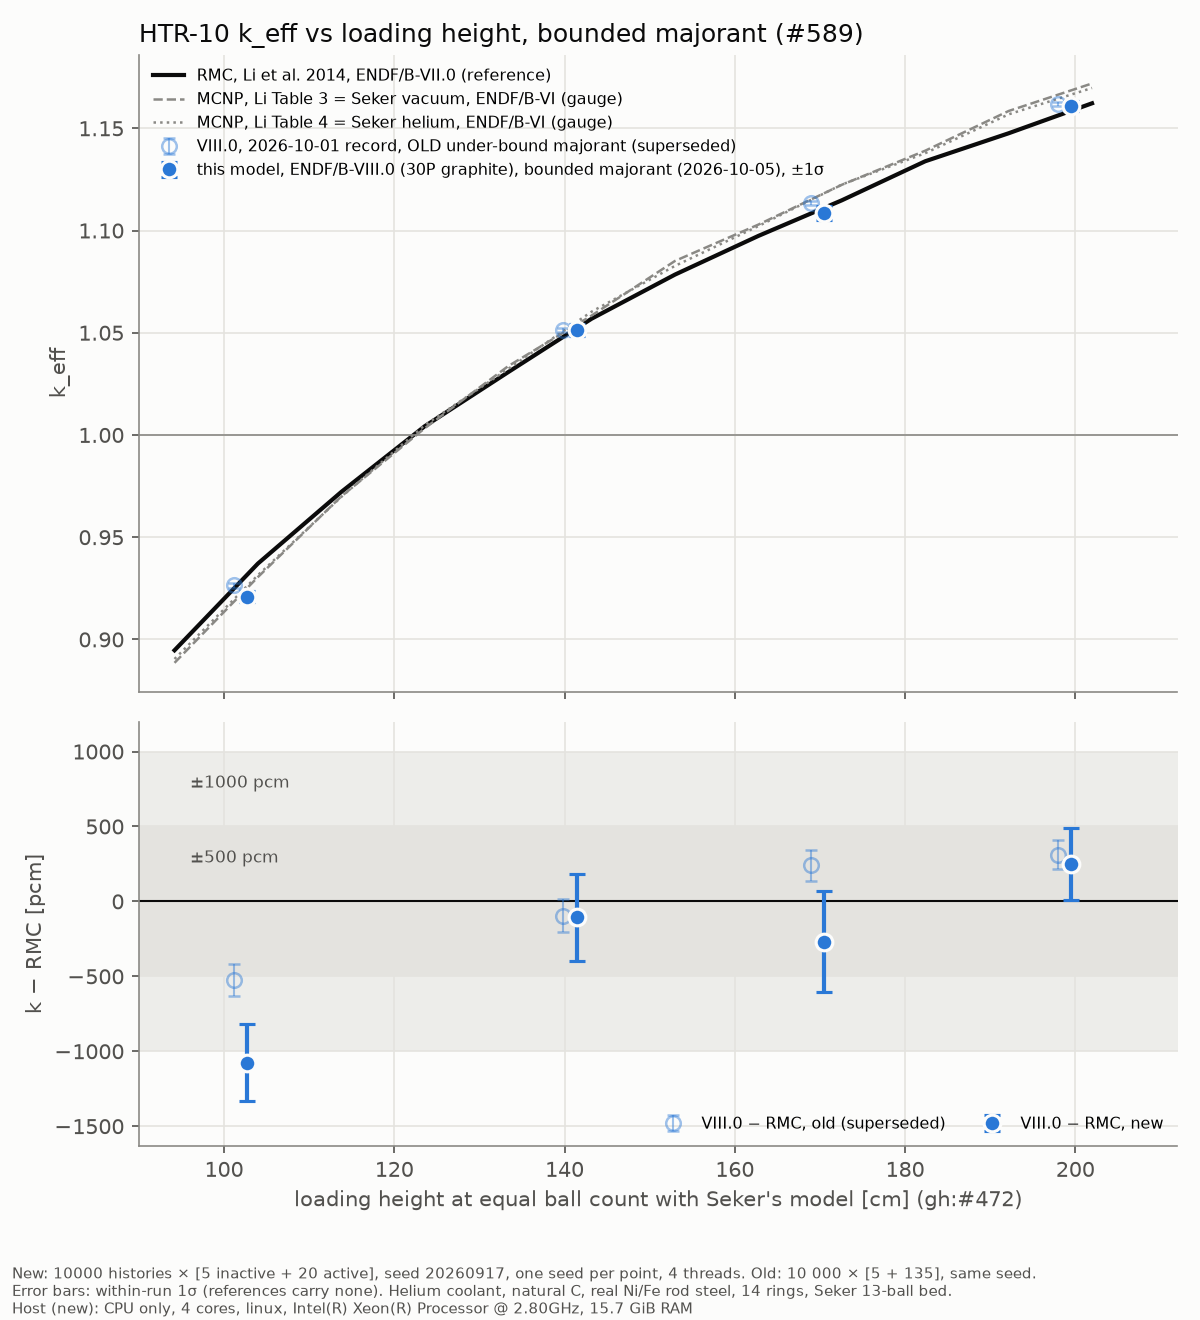
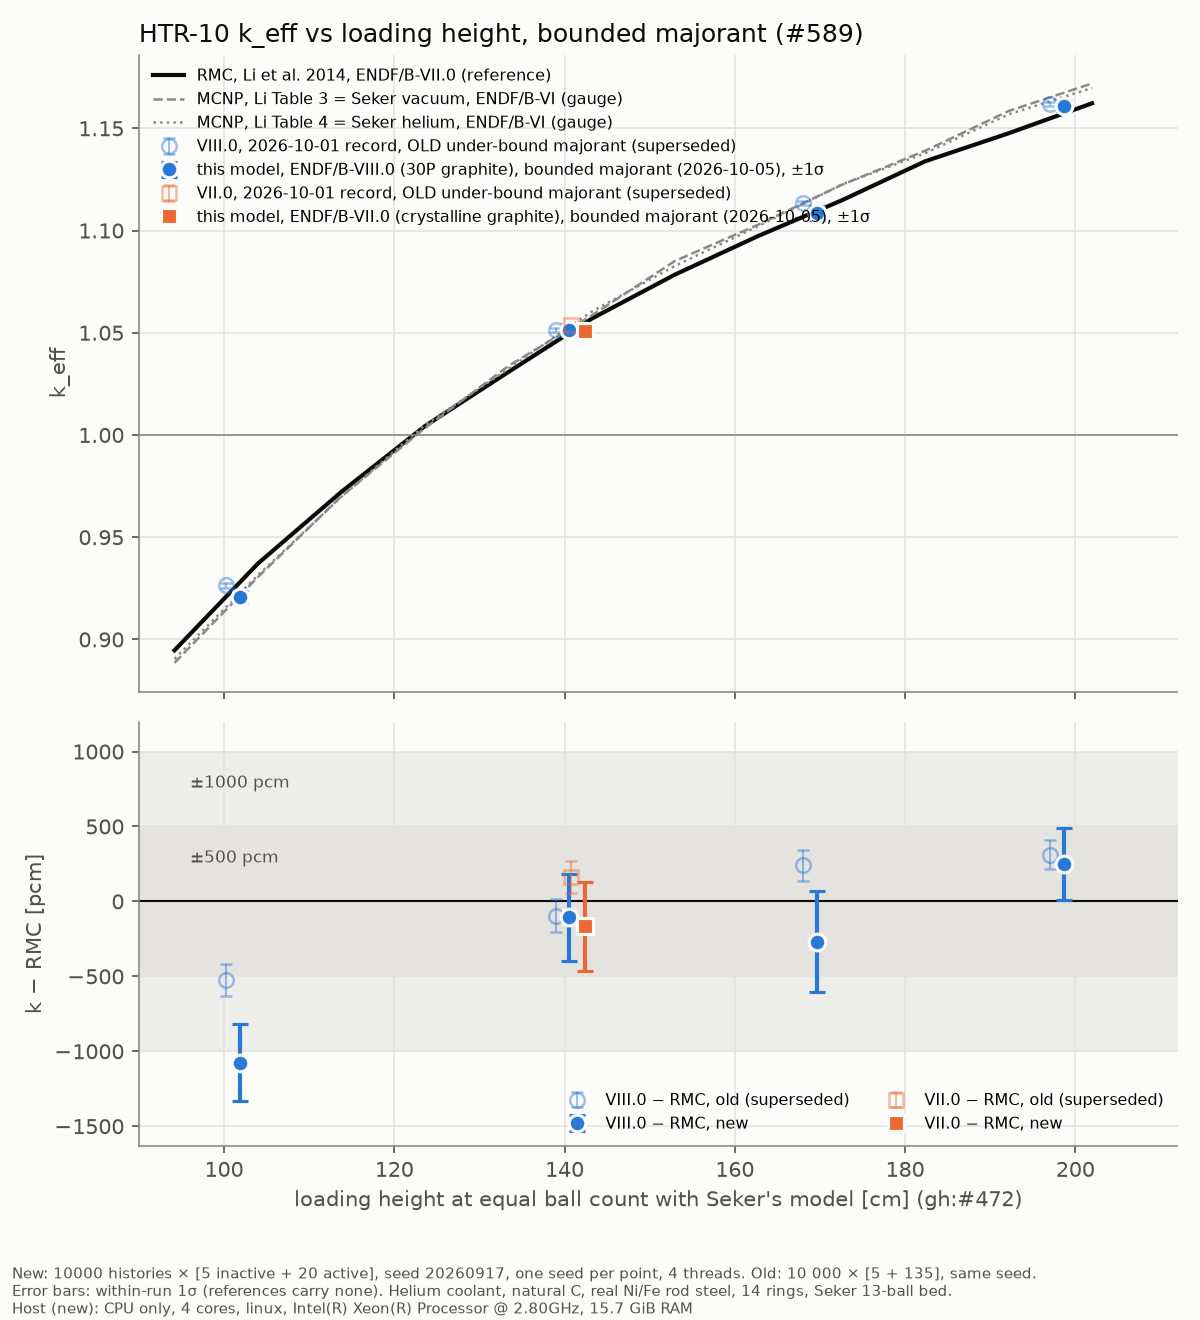
nee_soon: HTR-10 bounded-majorant re-measurement, VII.0 N = 14 log (#589)
VII.0 N = 14 at 10 000 x [5 + 20]: k = 1.050621 +/- 0.002977 against the
record's 1.053938 +/- 0.001072, shift -332 +/- 316 pcm (-1.05 sigma); 0 lost
locates. Tables and plots regenerated. The same-code control (VIII.0
N = 14, OUTRAM_HTR10_MAJORANT_WITHOUT_BREAKPOINTS=1) now writes
logs/run_e8_N14_control_old_majorant.log and is running.

No token accounting on this clone.

Claude-Session: https://claude.ai/code/session_01RK4L9ruHdU2JHaWPW4ozsc

diff --git a/crates/nee_soon/verification_and_validation/htr10_seker_2026_10_05_majorant_fix/plot_keff_vs_height.py b/crates/nee_soon/verification_and_validation/htr10_seker_2026_10_05_majorant_fix/plot_keff_vs_height.py
@@ -15,7 +15,7 @@ Writes into <out dir>:
   summary.md                             mean shift, and residual statistics new vs old at the same N
 
 Reads `run_{e7,e8}_N{10..20}.log` (the bounded-majorant runs) and
-`control_e8_N14_old_majorant.log` (same code, old majorant) if present. The old
+`run_e8_N14_control_old_majorant.log` (same code, old majorant) if present. The old
 k come from the old record's `results_table.csv`, never retyped. Each point is
 placed at the height where Seker's model holds as many balls as the built bed
 (gh:#472); residuals use the references linearly interpolated there. Error
@@ -195,7 +195,7 @@ def main():
             if f.exists() and "k_eff  " in f.read_text():
                 pts.append(run(f, n))
         runs[lib] = sorted(pts, key=lambda r: r["h"])
-    cf = logdir / "control_e8_N14_old_majorant.log"
+    cf = logdir / "run_e8_N14_control_old_majorant.log"
     control = run(cf, 14) if cf.exists() and "k_eff  " in cf.read_text() else None
     old = old_points()
 

diff --git a/crates/nee_soon/verification_and_validation/htr10_seker_2026_10_05_majorant_fix/summary.md b/crates/nee_soon/verification_and_validation/htr10_seker_2026_10_05_majorant_fix/summary.md
@@ -1,6 +1,7 @@
 | library | points | weighted mean shift [pcm] | ±1σ | χ² / dof about the mean |
 |---|---|---|---|---|
 | VIII.0 | 4 | -263 | 147 | 2.81 / 3 |
+| VII.0 | 1 | -332 | 316 | n/a |
 
 | library | which | vs | mean [pcm] | RMS [pcm] | max abs [pcm] | within ±500 | within ±1000 |
 |---|---|---|---|---|---|---|---|
@@ -10,3 +11,9 @@
 | VIII.0 | old, same N | RMC | -17 | 331 | 525 | 3/4 | 4/4 |
 | VIII.0 | old, same N | MCNP T3 | -327 | 445 | 689 | 3/4 | 4/4 |
 | VIII.0 | old, same N | MCNP T4 | -333 | 393 | 483 | 4/4 | 4/4 |
+| VII.0 | new (bounded) | RMC | -166 | 166 | 166 | 1/1 | 1/1 |
+| VII.0 | new (bounded) | MCNP T3 | -344 | 344 | 344 | 1/1 | 1/1 |
+| VII.0 | new (bounded) | MCNP T4 | -477 | 477 | 477 | 1/1 | 1/1 |
+| VII.0 | old, same N | RMC | +165 | 165 | 165 | 1/1 | 1/1 |
+| VII.0 | old, same N | MCNP T3 | -12 | 12 | 12 | 1/1 | 1/1 |
+| VII.0 | old, same N | MCNP T4 | -146 | 146 | 146 | 1/1 | 1/1 |

diff --git a/crates/nee_soon/verification_and_validation/htr10_seker_2026_10_05_majorant_fix/results_table.md b/crates/nee_soon/verification_and_validation/htr10_seker_2026_10_05_majorant_fix/results_table.md
@@ -6,3 +6,9 @@
 | 14 | 143.171 | 141.454 | 1.051235 ± 0.002896 | 1.052285 | 1.054062 | 1.055396 | -105 ± 290 | -283 | -416 | -0.36 |
 | 17 | 172.565 | 170.499 | 1.108423 ± 0.003351 | 1.111103 | 1.118263 | 1.118197 | -268 ± 335 | -984 | -977 | -0.80 |
 | 20 | 201.959 | 199.543 | 1.161085 ± 0.002409 | 1.158614 | 1.168607 | 1.166548 | +247 ± 241 | -752 | -546 | +1.03 |
+
+### ENDF/B-VII.0
+
+| N | built [cm] | ref. height [cm] | k ± 1σ | RMC | MCNP T3 (vac) | MCNP T4 (He) | k − RMC [pcm] | k − T3 [pcm] | k − T4 [pcm] | (k − RMC)/σ |
+|---|---|---|---|---|---|---|---|---|---|---|
+| 14 | 143.171 | 141.454 | 1.050621 ± 0.002977 | 1.052285 | 1.054062 | 1.055396 | -166 ± 298 | -344 | -477 | -0.56 |

diff --git a/crates/nee_soon/verification_and_validation/htr10_seker_2026_10_05_majorant_fix/shift_table.md b/crates/nee_soon/verification_and_validation/htr10_seker_2026_10_05_majorant_fix/shift_table.md
@@ -4,3 +4,4 @@
 | VIII.0 | 14 | 1.051335 ± 0.001085 | 1.051235 ± 0.002896 | -10 | 309 | -0.03 | -95 | -105 | -283 | -416 |
 | VIII.0 | 17 | 1.113519 ± 0.001034 | 1.108423 ± 0.003351 | -510 | 351 | -1.45 | +242 | -268 | -984 | -977 |
 | VIII.0 | 20 | 1.161718 ± 0.000964 | 1.161085 ± 0.002409 | -63 | 259 | -0.24 | +310 | +247 | -752 | -546 |
+| VII.0 | 14 | 1.053938 ± 0.001072 | 1.050621 ± 0.002977 | -332 | 316 | -1.05 | +165 | -166 | -344 | -477 |
